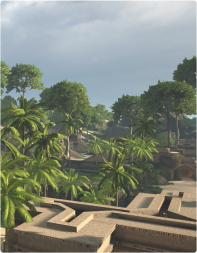
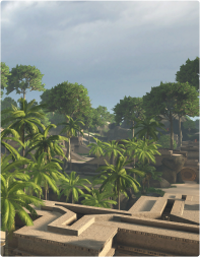
I fixed the featured section

diff --git a/webroot/game_landing.html b/webroot/game_landing.html
@@ -88,25 +88,30 @@
                 <h3 class="feature_title">Features</h3>
                 <p class="feature_paragraph feature_title--paragraph">What's so special?</p>
             </header>
-            <ul>
-                <li>
-                    <details>
-                        <summary>Survive at all costs</summary>
-                        <p class="feature_paragraph">You have 30 minutes to find a relic, signal for extraction, and grab one of three spots on the rescue chopper.
-                        </p>
-                    </details>
-                </li>
-                <li>
-                    <details>
-                        <summary>Create allies and enemies</summary>
-                    </details>
-                </li>
-                <li>
-                    <details>
-                        <summary>Impress your audience</summary>
-                    </details>
-                </li>
-            </ul>
+            <figure>
+                <img src="./images/feature-bg-crp.png" alt="background image for the feature section">
+            </figure>
+            <aside>
+                <ul>
+                    <li>
+                        <details>
+                            <summary>Survive at all costs</summary>
+                            <p class="feature_paragraph">You have 30 minutes to find a relic, signal for extraction, and grab one of three spots on the rescue chopper.
+                            </p>
+                        </details>
+                    </li>
+                    <li>
+                        <details>
+                            <summary>Create allies and enemies</summary>
+                        </details>
+                    </li>
+                    <li>
+                        <details>
+                            <summary>Impress your audience</summary>
+                        </details>
+                    </li>
+                </ul>
+            </aside>
         </article>
 
         <article class="requirements">

diff --git a/webroot/css/index.css b/webroot/css/index.css
@@ -108,8 +108,7 @@ li {
   z-index: 3;
   top: 0;
   left: 0;
-  right: calc(100% * 24 / 249);
-  opacity: 0.5; }
+  right: calc(100% * 24 / 249); }
 
 .sos_image2 {
   top: 50%;
@@ -144,13 +143,26 @@ img {
   content: "⚪"; }
 
 .feature {
-  text-align: center;
-  background-image: url(../../webroot/images/feature-bg-crp.png);
-  background-repeat: no-repeat;
-  background-size: 100%;
-  padding-inline-end: 219px;
-  padding-block-end: 515px;
-  opacity: 0.5; }
+  padding-right: calc(93px + 212px); }
+
+.feature > img {
+  max-width: 100%;
+  width: 100%;
+  height: 100%; }
+
+figure {
+  margin-block-start: 0;
+  margin-block-end: 0;
+  margin-inline-start: 0;
+  margin-inline-end: 0; }
+
+aside {
+  padding: 1rem;
+  position: absolute;
+  top: 40%;
+  right: 0;
+  left: 40%;
+  padding-top: calc(calc(50% * 3 / 10) + 1rem); }
 
 .feature_title,
 .feature_title--paragraph,
@@ -163,7 +175,8 @@ img {
 summary {
   color: #FFB548;
   font-size: 21px;
-  text-transform: uppercase; }
+  text-transform: uppercase;
+  padding-block-end: 2rem; }
 
 .requirements {
   text-align: center;

diff --git a/scss/variable/_features.scss b/scss/variable/_features.scss
@@ -1,12 +1,28 @@
 @import "../variable/variable";
 .feature {
-    text-align: center;
-    background-image: url(../../webroot/images/feature-bg-crp.png);
-    background-repeat: no-repeat;
-    background-size: 100%;
-    padding-inline-end: 219px;
-    padding-block-end: 515px;
-    opacity: 0.5;
+    padding-right: calc(93px + 212px);
+}
+
+.feature>img {
+    max-width: 100%;
+    width: 100%;
+    height: 100%;
+}
+
+figure {
+    margin-block-start: 0;
+    margin-block-end: 0;
+    margin-inline-start: 0;
+    margin-inline-end: 0;
+}
+
+aside {
+    padding: 1rem;
+    position: absolute;
+    top: 40%;
+    right: 0;
+    left: 40%;
+    padding-top: calc(calc(50% * 3 / 10) + 1rem);
 }
 
 .feature_title,
@@ -23,6 +39,7 @@ summary {
     color: $summary-color;
     font-size: $header-font-size;
     text-transform: $uppercase-text;
+    padding-block-end: 2rem;
 }
 
 // height: 1000vw * 388/343

diff --git a/scss/variable/_sos.scss b/scss/variable/_sos.scss
@@ -41,7 +41,6 @@
     top: 0;
     left: 0;
     right: calc(100% * 24 / 249);
-    opacity: 0.5;
 }
 
 .sos_image2 {
